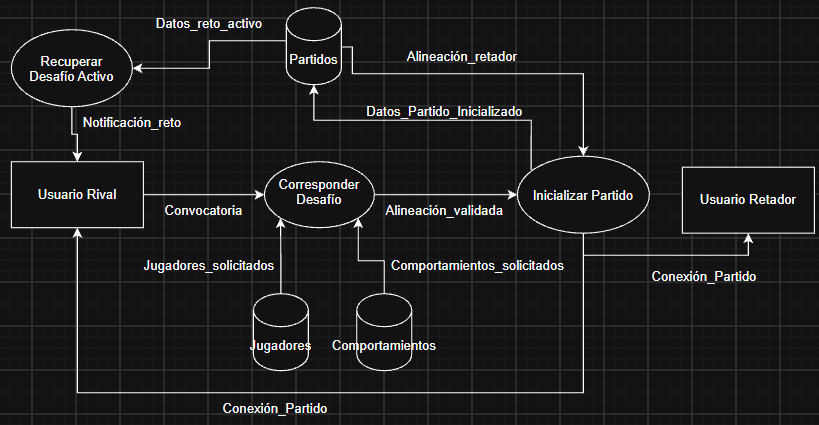
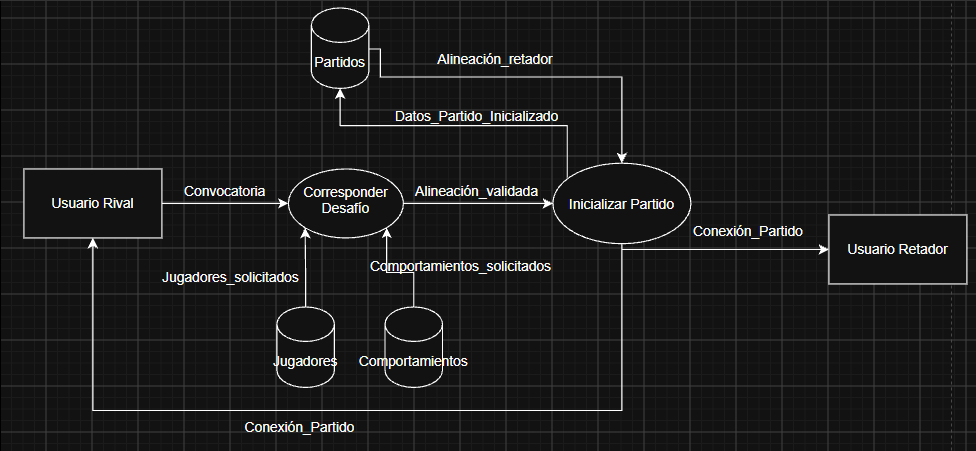
fix(DFD Caso 20): corrijo interacción inicial y elimino transformador

diff --git a/CasosDeUso.md b/CasosDeUso.md
@@ -523,20 +523,20 @@
 
 **Caso de Éxito (Flujo Principal):**
 
-1. El sistema notifica al Usuario la recepción de un desafío con temporizador de respuesta.
-2. El Usuario abre la notificación y selecciona "Aceptar Invitación".
-3. El sistema solicita al Usuario seleccionar 6 jugadores, formación táctica y comportamientos iniciales.
-4. El Usuario configura su alineación y confirma.
-5. El sistema valida la información e inicia el partido para ambos usuarios.
+
+1. El Usuario abre la notificación y selecciona "Aceptar Invitación".
+2. El sistema solicita al Usuario seleccionar 6 jugadores, formación táctica y comportamientos iniciales.
+3. El Usuario configura su alineación y confirma.
+4. El sistema valida la información e inicia el partido para ambos usuarios.
 
 **Casos Alternativos:** 
 
-2.a. El Usuario Rival declina la invitación:
+1.a. El Usuario Rival declina la invitación:
 
    1. El Usuario selecciona "Rechazar".
    2. El sistema notifica al Usuario Retador la declinación.
 
-2.b. El temporizador expira sin respuesta:
+1.b. El temporizador expira sin respuesta:
 
    1. El sistema detecta el vencimiento del tiempo límite, descarta la invitación y notifica al Usuario Retador.
 
@@ -544,7 +544,7 @@
 
 4.a. El Usuario no cuenta con los requisitos mínimos para armar la plantilla:
 
-   1. El sistema detecta que el Usuario no puede completar los 6 convocados o tácticas. Cancela la aceptación automáticamente y notifica al retador la falta de plantel.
+   1. El sistema da aviso y cancela la acción.
 
 ---
 
